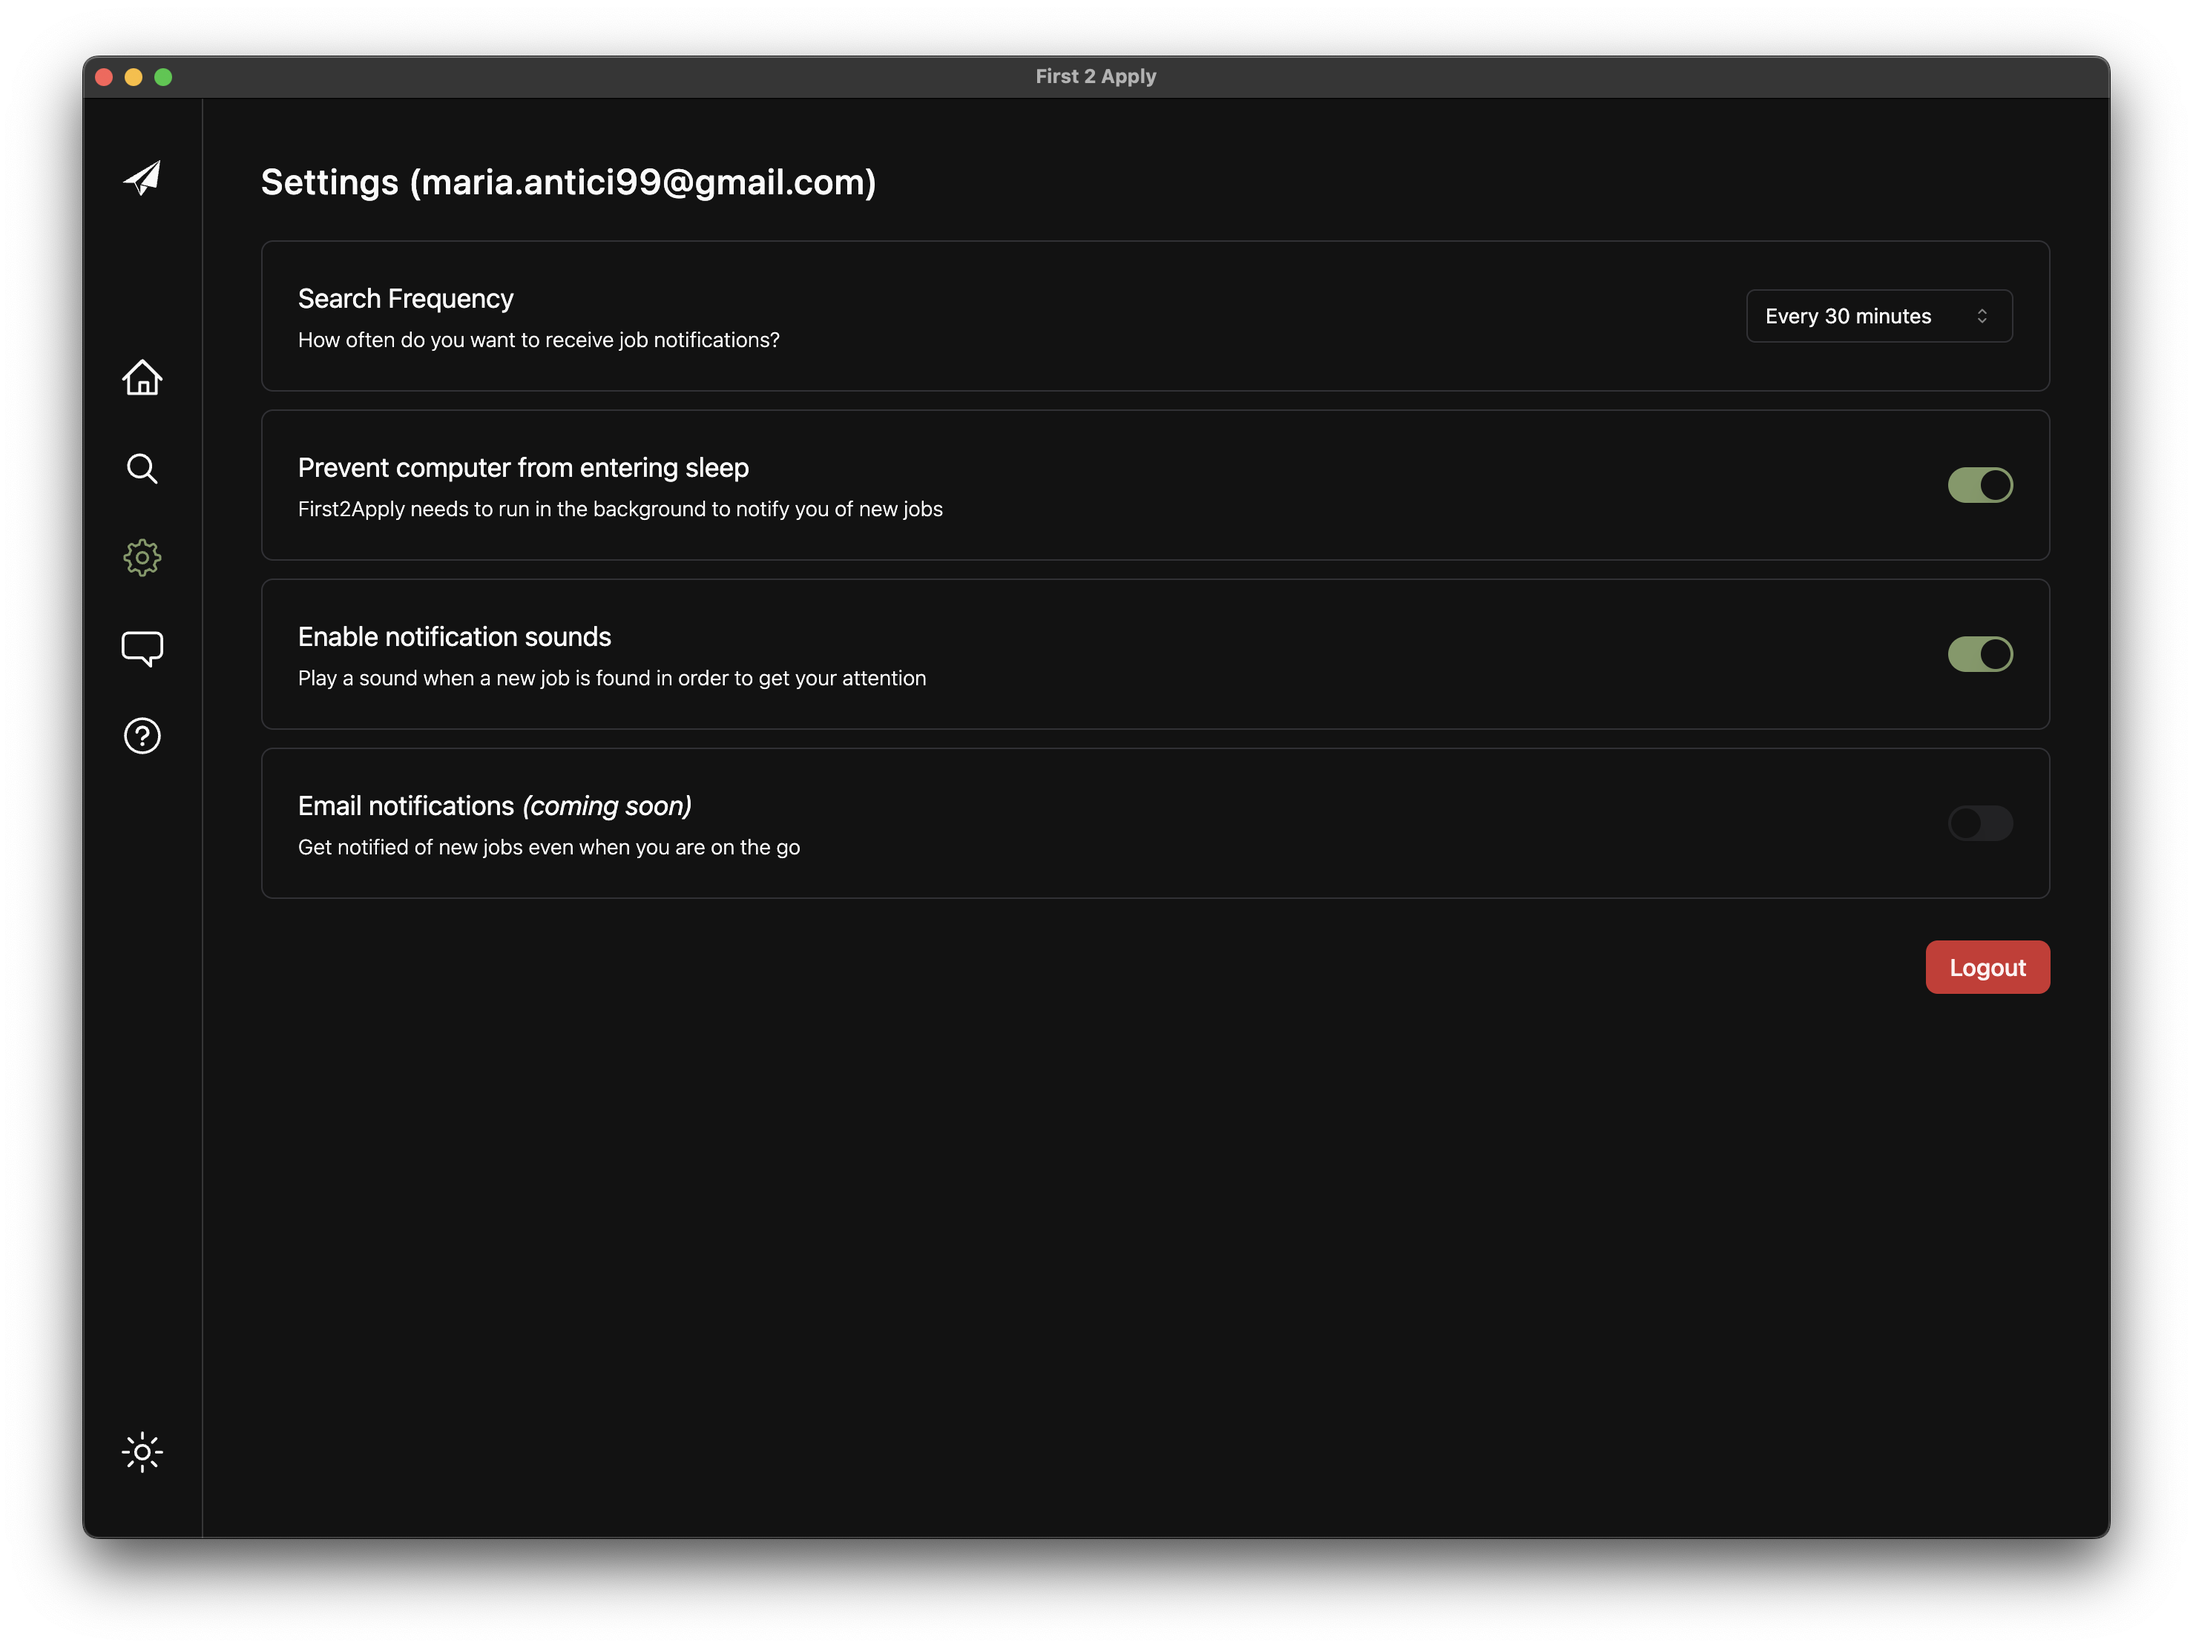
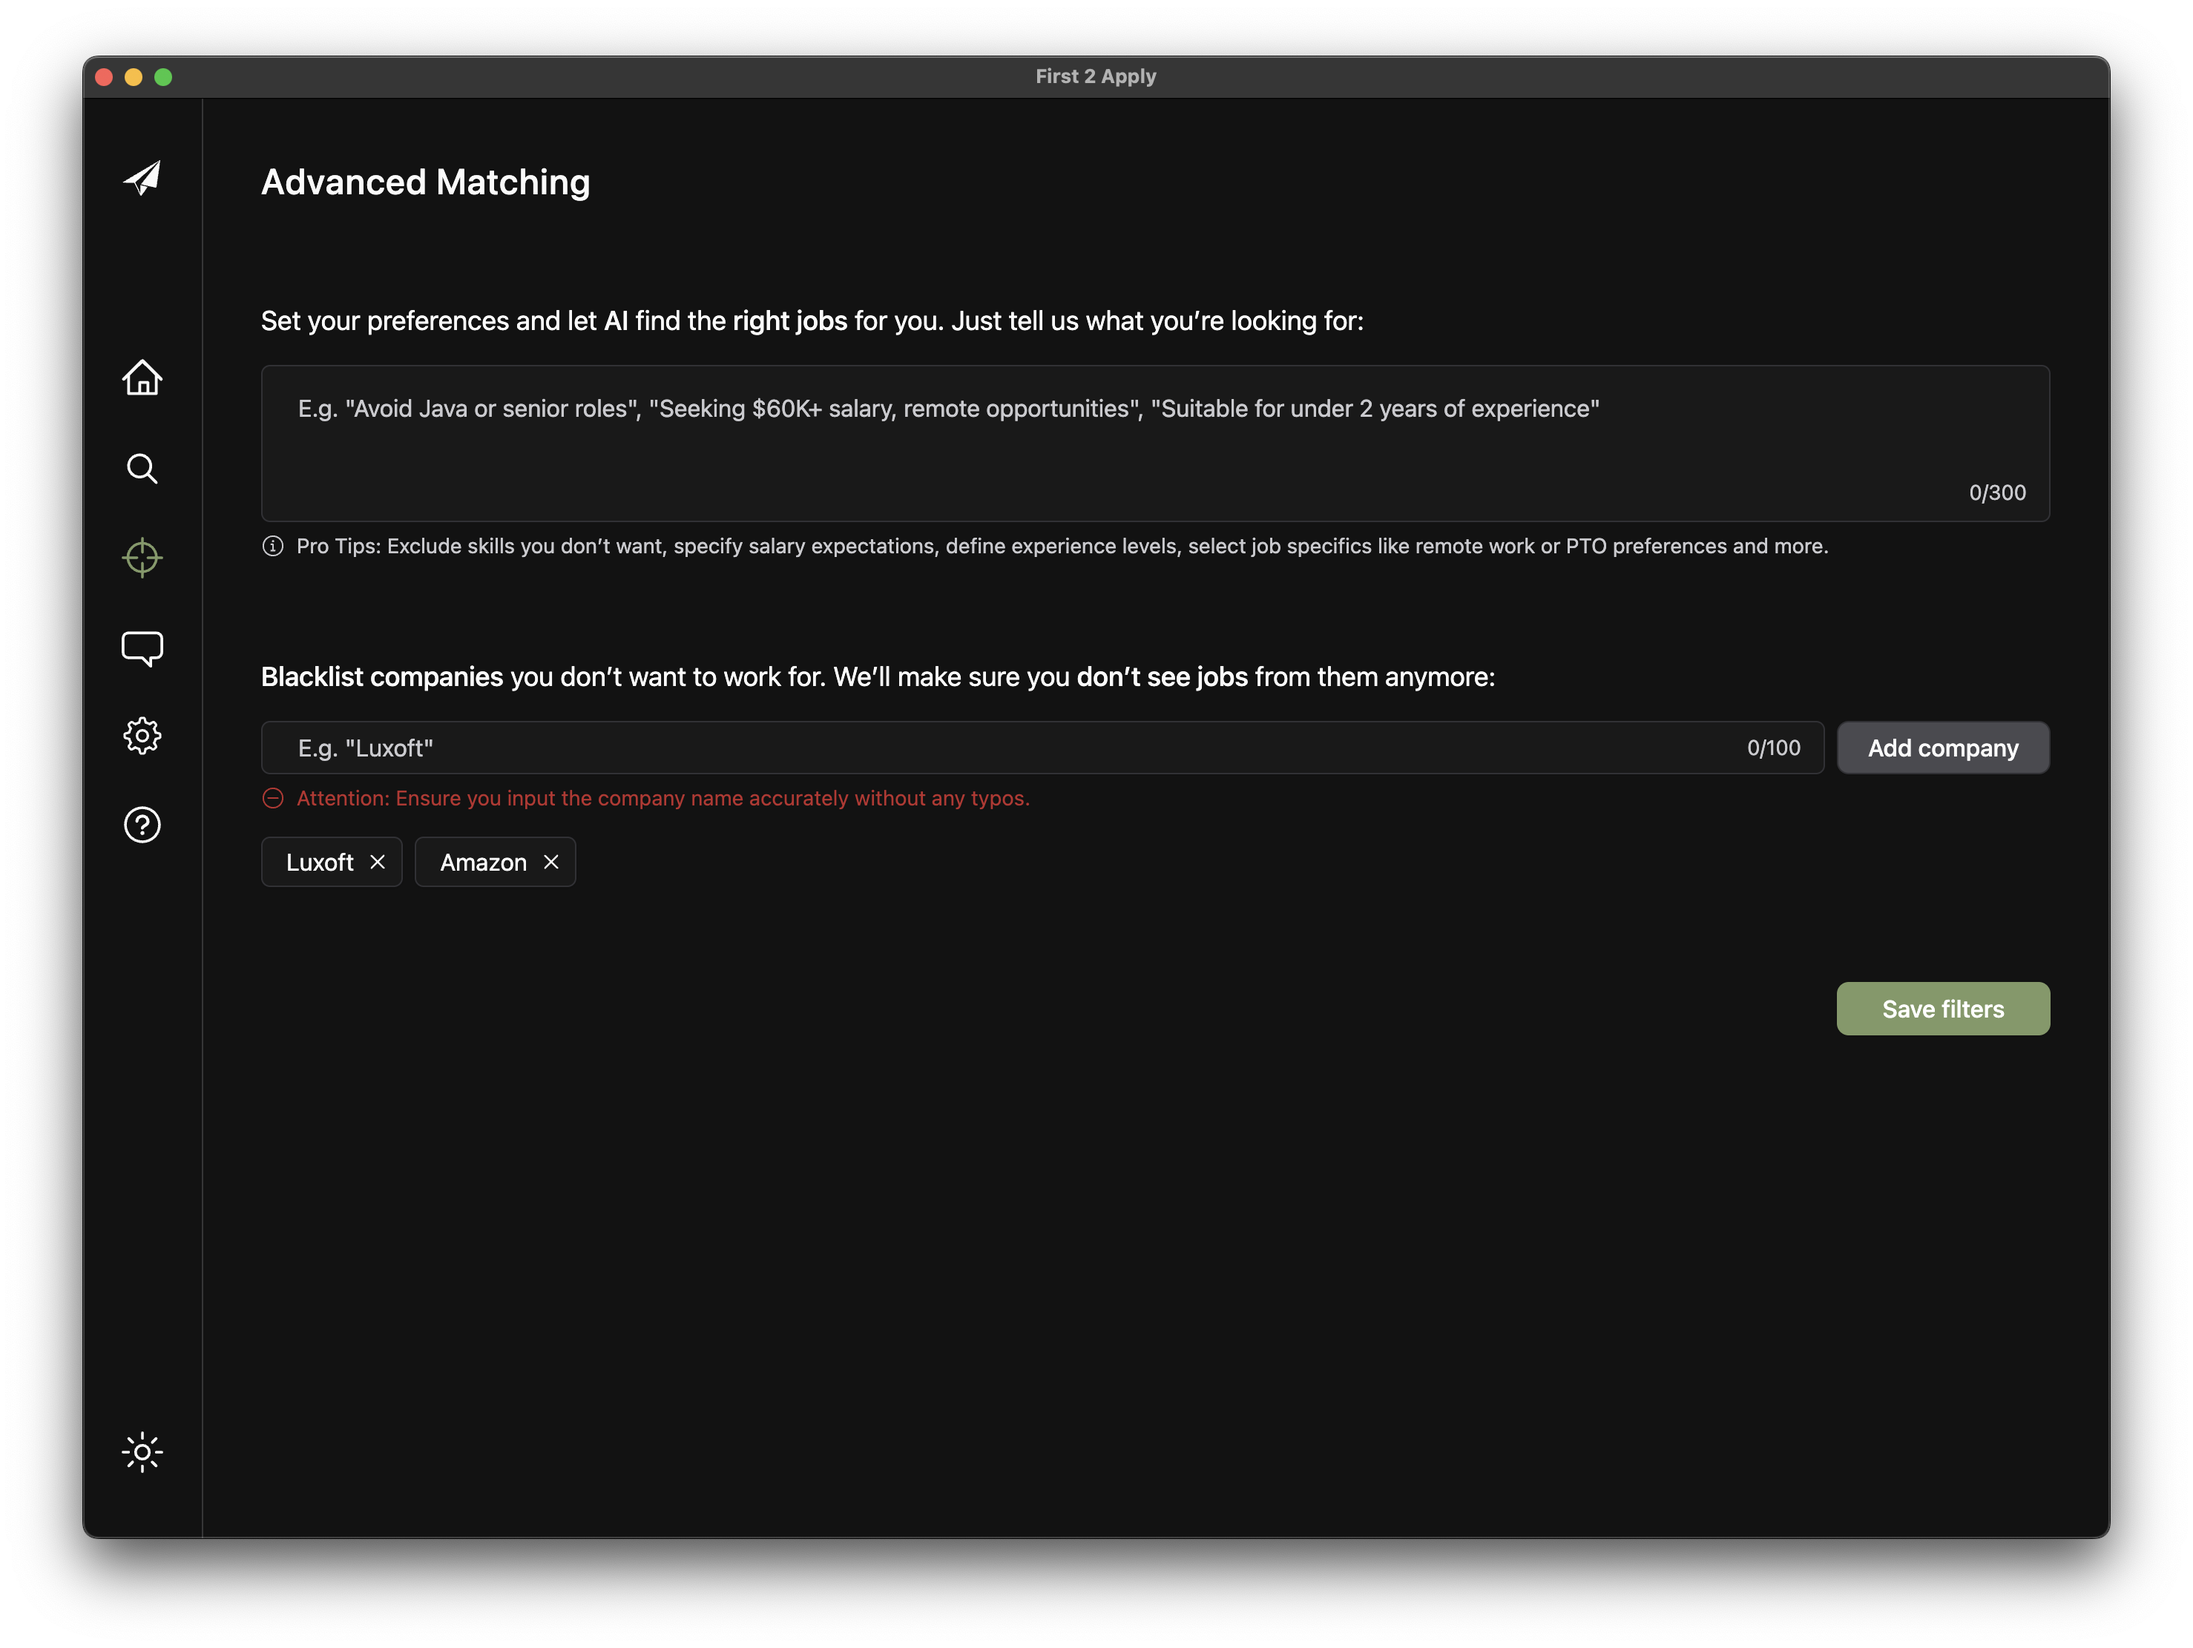
feat(landing page): advanced matching ready

diff --git a/landingPage/src/components/advancedMatchingSection.tsx b/landingPage/src/components/advancedMatchingSection.tsx
@@ -23,16 +23,13 @@ export function AdvancedMatchingSection() {
         <Image
           src={advancedMatchingLight}
           alt="advanced-matching light"
-          className="w-full h-auto blur-sm dark:hidden"
+          className="w-full h-auto dark:hidden"
         />
         <Image
           src={advancedMatchingDark}
           alt="advanced-matching dark"
-          className="hidden w-full h-auto blur-sm dark:block"
+          className="hidden w-full h-auto dark:block"
         />
-        <div className="absolute top-8 xs:top-10 sm:top-12 md:top-8 lg:top-14 right-1 xs:right-2 sm:right-3 md:right-2 lg:right-3 bg-gradient-to-r from-primary via-primary via-80% to-background/5 opacity-70 rounded-l-sm py-2 pl-6 pr-8 transform text-background sm:text-lg font-medium tracking-wide">
-          Coming Soon
-        </div>
       </div>
     </section>
   );

diff --git a/landingPage/src/components/pricingSection.tsx b/landingPage/src/components/pricingSection.tsx
@@ -159,20 +159,13 @@ export function PricingSection() {
                   ))}
                 </ul>
               </CardFooter>
-
-              {plan.name === "Pro" && (
-                <div className="absolute top-12 -right-2 bg-primary text-background sm:text-lg font-medium py-1 sm:py-2 px-20 transform rotate-45 translate-x-1/4 -translate-y-1/4">
-                  Coming Soon
-                </div>
-              )}
             </Card>
           ))}
         </div>
       </Tabs>
 
       <p className="mt-[5vh] text-xl sm:text-2xl font-medium text-center text-balance">
-        Since we haven&apos;t implemented payments yet, feel free to use the app
-        free of charge for now :)
+        You get a 7 DAYS FREE trial. No credit card required.
       </p>
     </section>
   );
